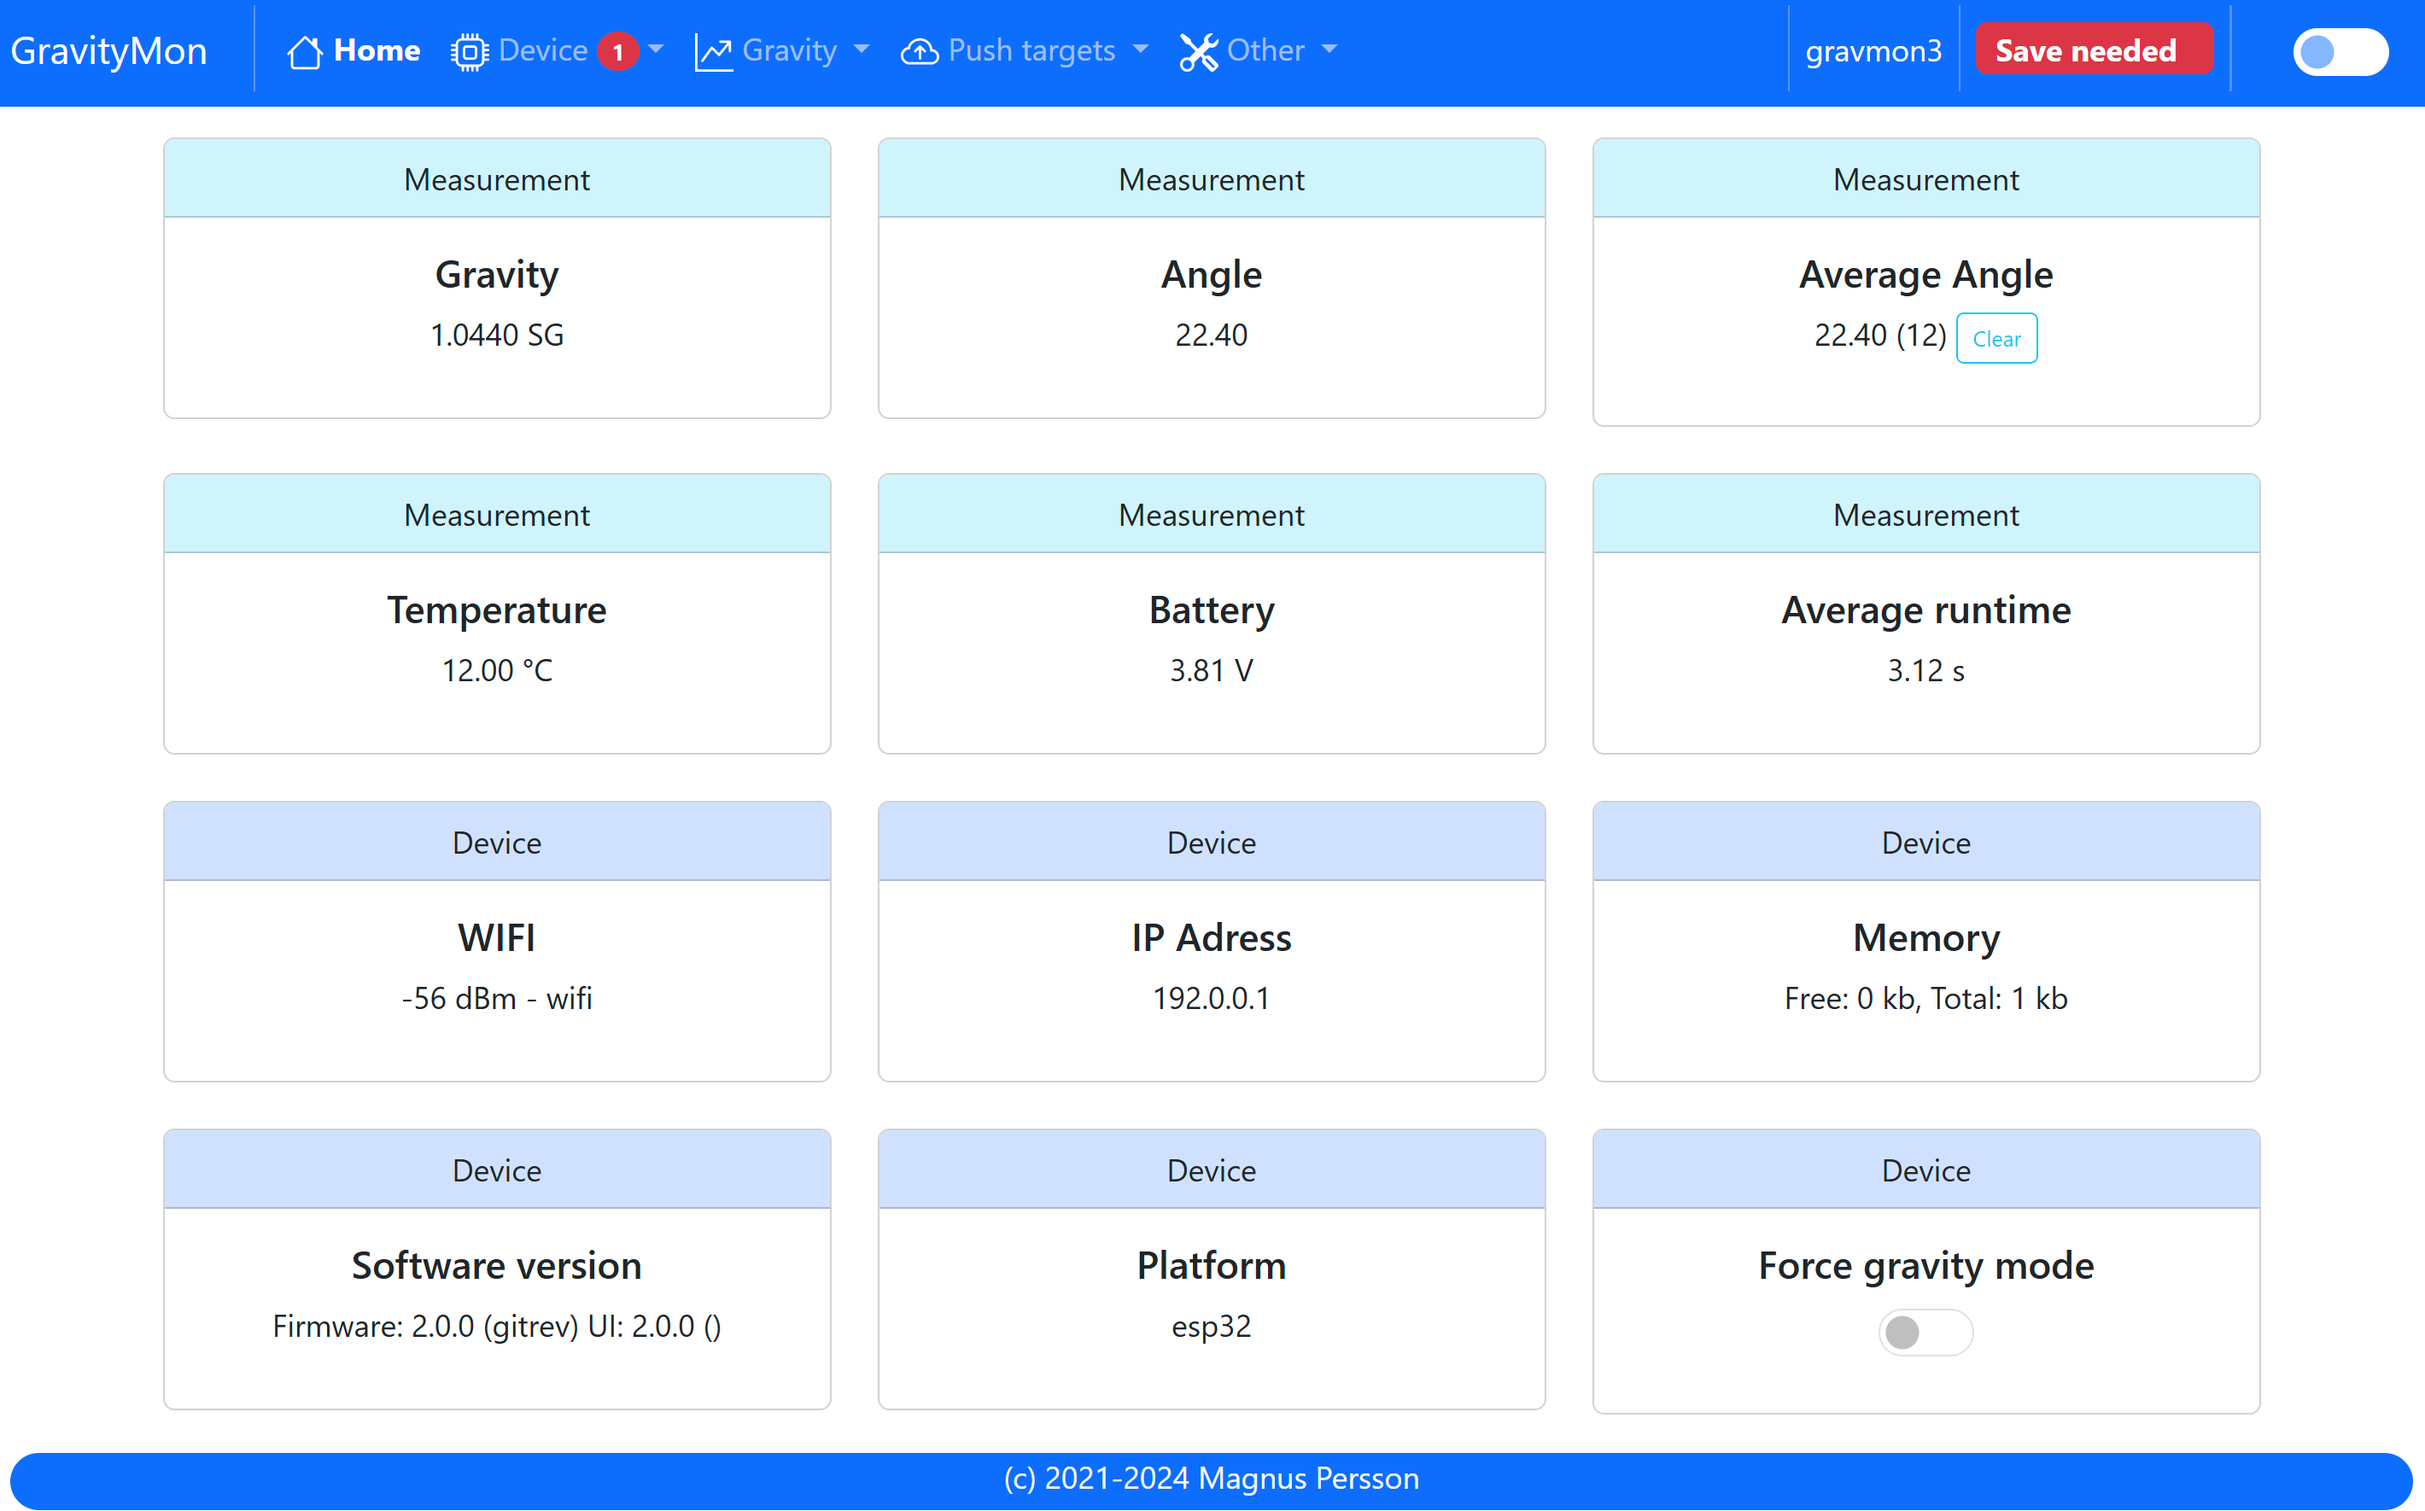
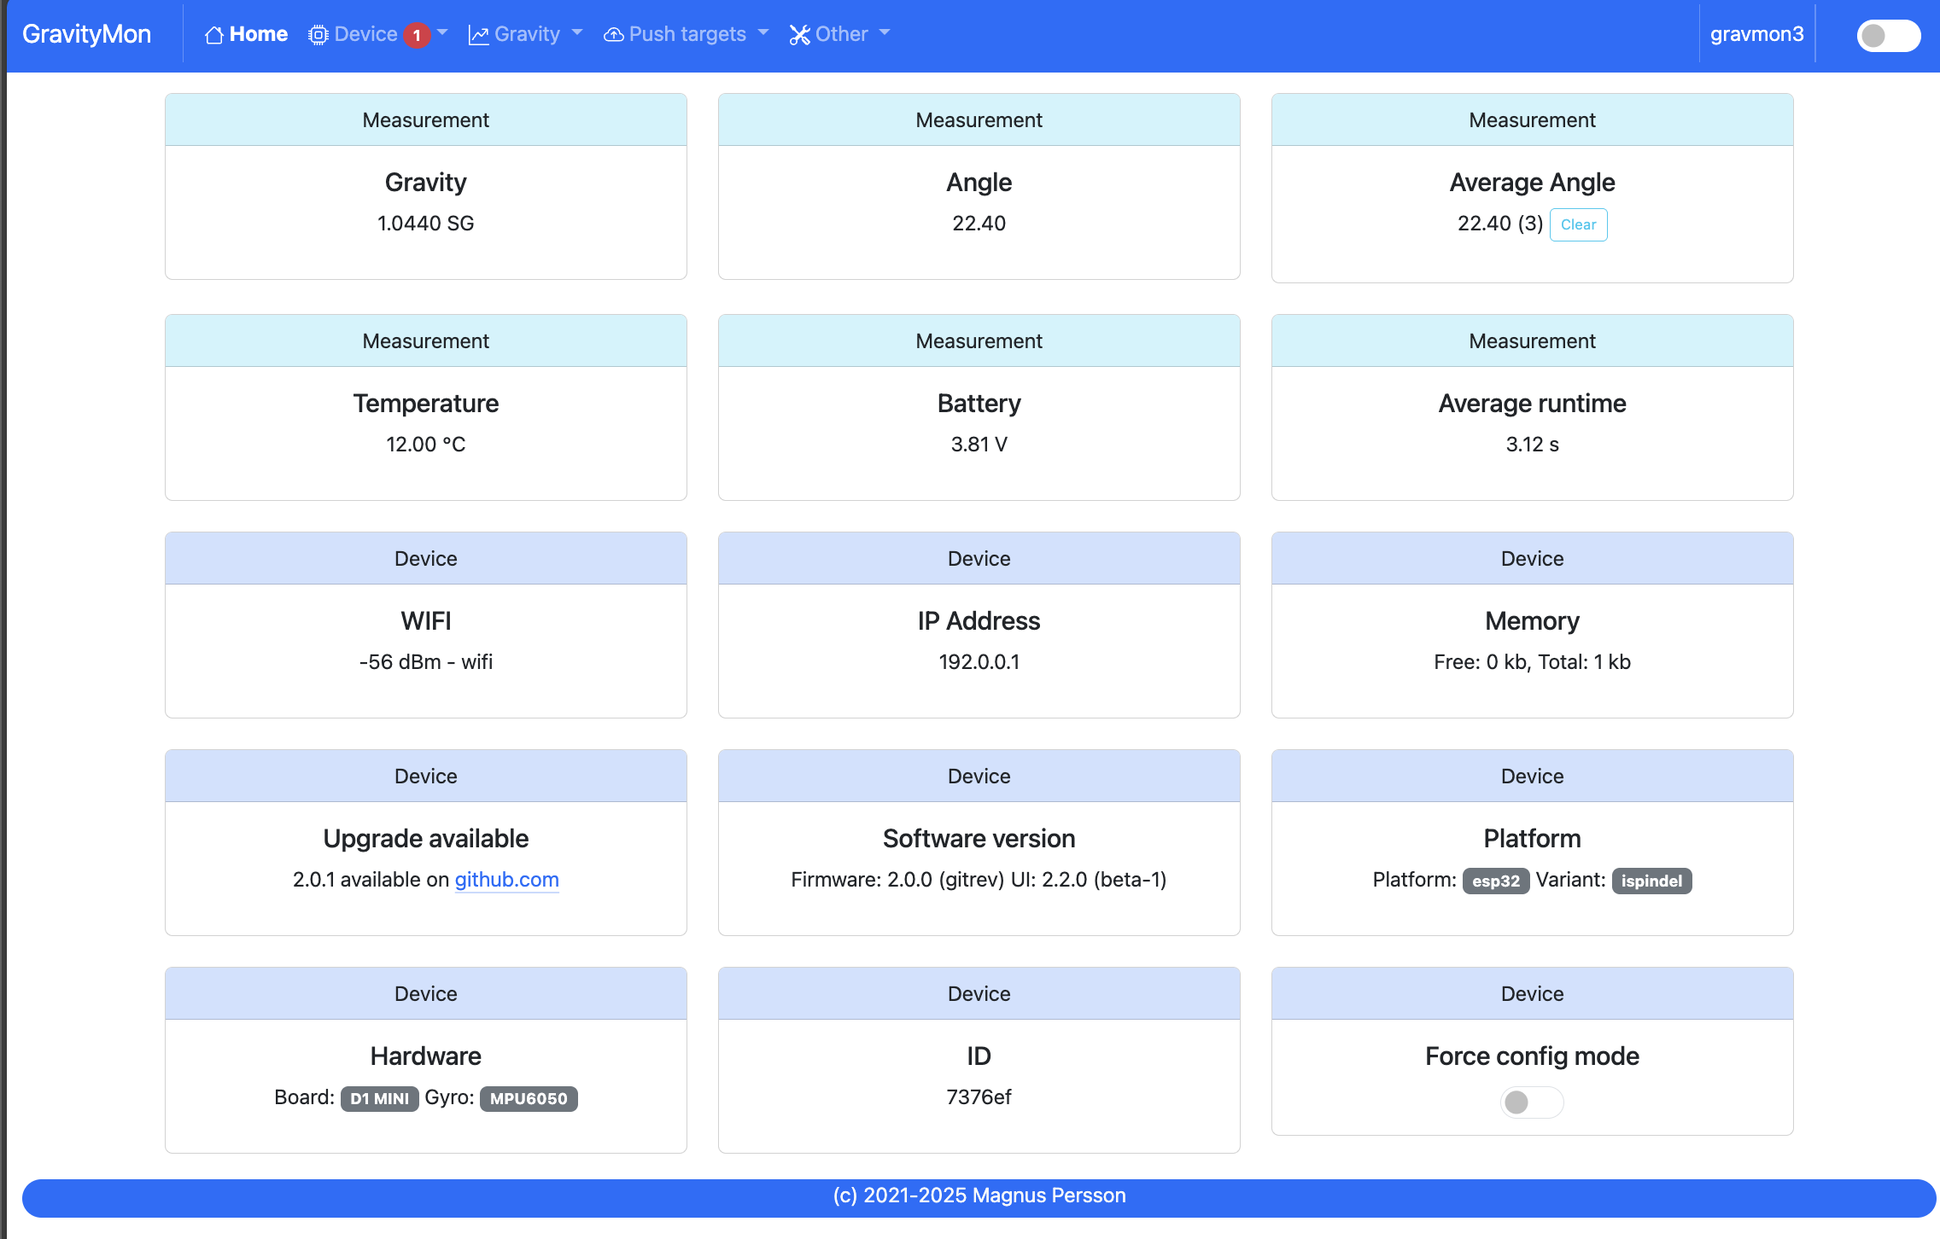
Update docs on UI configuration

diff --git a/src_docs/source/configuration.rst b/src_docs/source/configuration.rst
@@ -94,6 +94,10 @@ Device - Settings
 
   Switches the UI between light and dark mode. You can also use the toggle on the menubar for that.
 
+* **Enable flash logging:**
+
+  If disabled there will be no runtime logging on every run, this will prolong the lifespan of the device. 
+
 * **Factory default**
 
   This function will reset all settings to factory default. Use with caution!
@@ -159,6 +163,17 @@ Device - Hardware
   .. warning::
 
     The device will **not** go into `gravity monitoring` mode unless calibrated
+
+
+.. image:: images/ui-device-hardware-icm.png
+  :width: 800
+  :alt: Device Hardware (ICM)
+
+When using a the ICM gyro the hardware page looks a little different since there is no calibration option and gyro settings. 
+
+* **Swap X and Y axis:** 
+
+  When enabled this option will use the Y axis for the tilt calculation instead of the X axis. The ICM development boards uses this orientation.
 
 
 Device - WIFI
